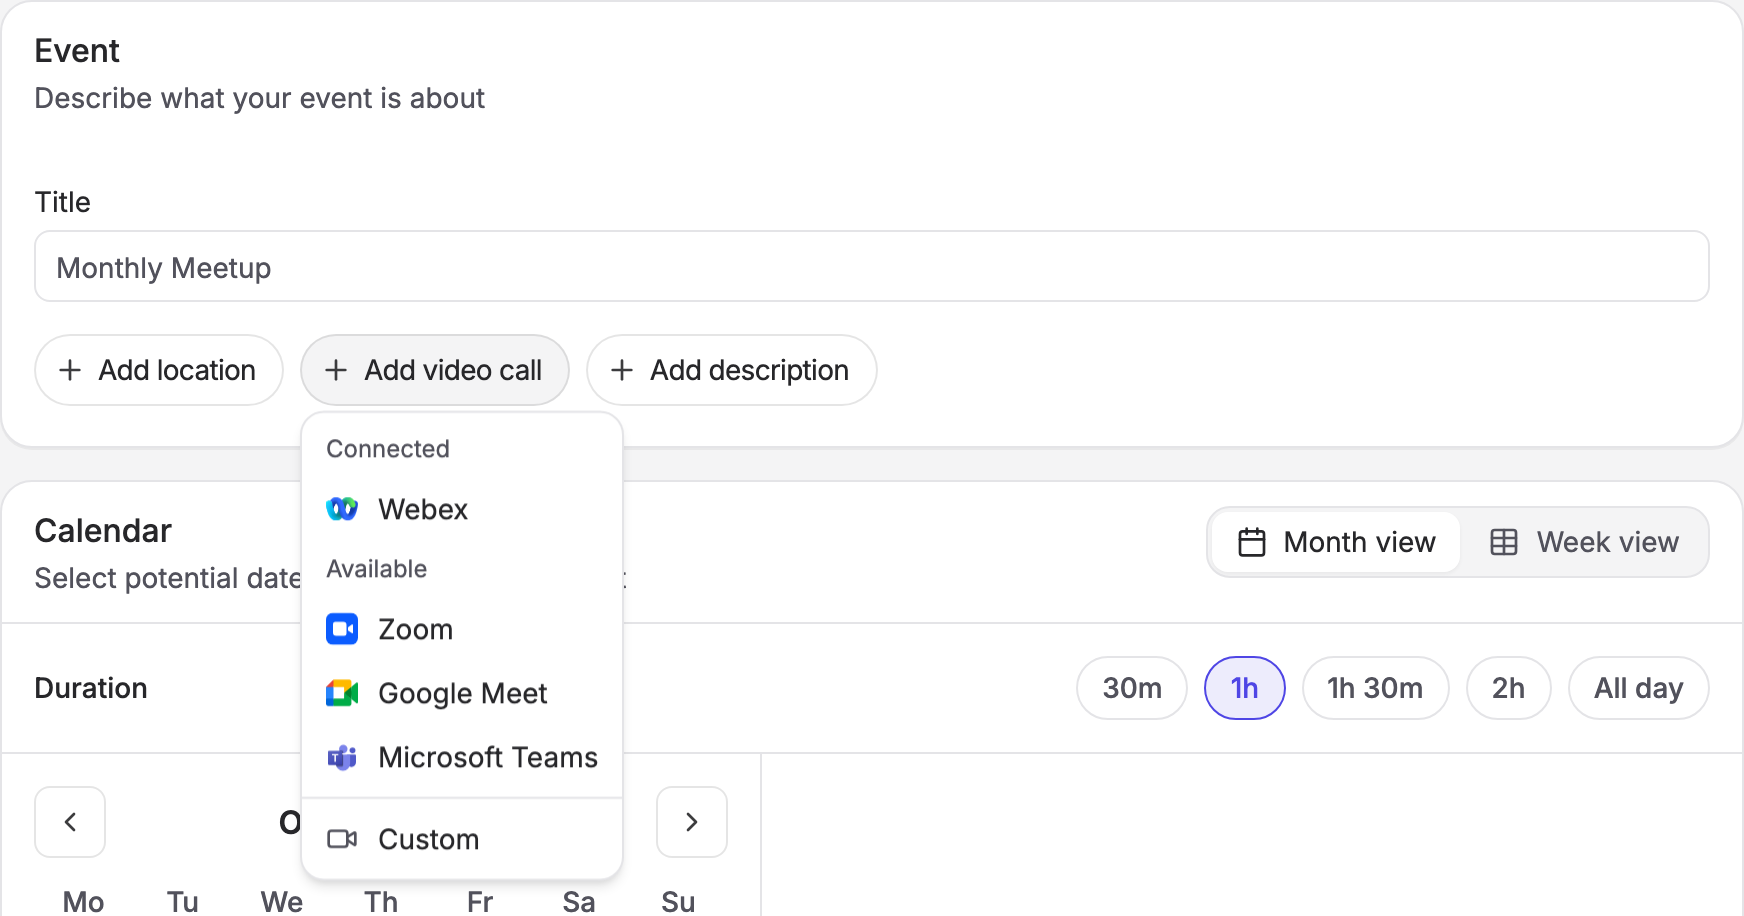
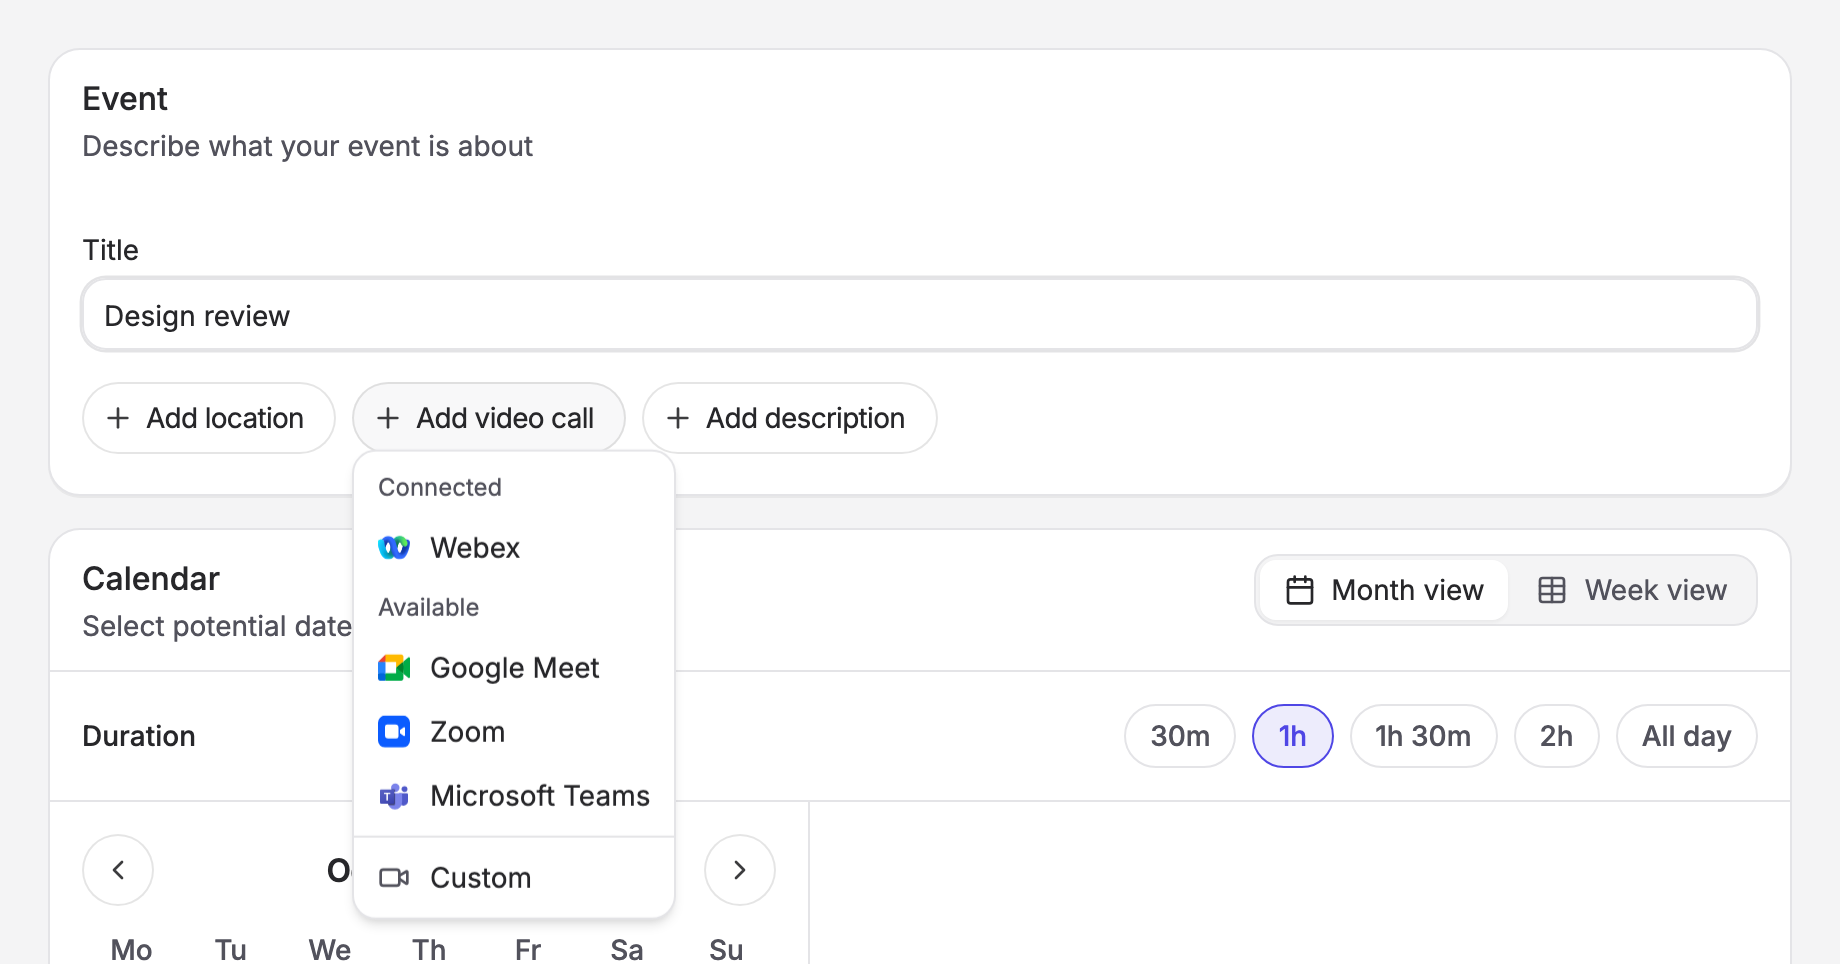
📝 Retake conferencing guide screenshots in the new provider order
The capture script now covers all four providers, so every guide shows the
same settings page and menu. Selected and not connected images share one
name across guides.

diff --git a/packages/screenshots/capture/docs-conferencing.spec.ts b/packages/screenshots/capture/docs-conferencing.spec.ts
@@ -8,21 +8,50 @@ import { docsImagePath } from "./helpers";
 test.use({ deviceScaleFactor: 2 });
 
 const userId = "user-1";
+const pollId = "docs-conferencing-poll";
 
+// Listed in the order the app offers them, so each guide's screenshots show
+// the same settings page and menu.
 const providers = [
+  {
+    provider: "meet",
+    label: "Google Meet",
+    dir: "google-meet",
+    credentialProvider: "google",
+    integrationId: "google-meet",
+    scopes: ["https://www.googleapis.com/auth/meetings.space.created"],
+    email: "jessie.smith@example.com",
+    extras: { notConnected: true, disconnect: true, pollPage: false },
+  },
+  {
+    provider: "zoom",
+    label: "Zoom",
+    dir: "zoom",
+    credentialProvider: "zoom",
+    integrationId: "zoom",
+    scopes: ["user:read:user", "meeting:write:meeting"],
+    email: "jessie.smith@example.com",
+    extras: { notConnected: true, disconnect: true, pollPage: true },
+  },
   {
     provider: "teams",
     label: "Microsoft Teams",
     dir: "microsoft-teams",
+    credentialProvider: "microsoft",
+    integrationId: "microsoft-teams",
     scopes: ["OnlineMeetings.ReadWrite"],
     email: "jessie.smith@contoso.example",
+    extras: { notConnected: false, disconnect: false, pollPage: false },
   },
   {
     provider: "webex",
     label: "Webex",
     dir: "webex",
+    credentialProvider: "webex",
+    integrationId: "webex",
     scopes: ["meeting:schedules_write", "spark:people_read"],
     email: "jessie.smith@example.com",
+    extras: { notConnected: false, disconnect: false, pollPage: false },
   },
 ] as const;
 
@@ -31,17 +60,22 @@ async function clearConnections() {
     where: { userId, provider: { in: providers.map((p) => p.provider) } },
   });
   await prisma.credential.deleteMany({
-    where: { userId, provider: { in: ["microsoft", "webex"] } },
+    where: { userId, providerAccountId: { startsWith: "docs-" } },
   });
+  await prisma.poll.deleteMany({ where: { id: pollId } });
 }
 
 async function seedConnection({
   provider,
+  credentialProvider,
+  integrationId,
   scopes,
   email,
   label,
 }: {
   provider: string;
+  credentialProvider: string;
+  integrationId: string;
   scopes: readonly string[];
   email: string;
   label: string;
@@ -50,8 +84,6 @@ async function seedConnection({
   if (!secretPassword) {
     throw new Error("SECRET_PASSWORD is required to seed a credential");
   }
-  const credentialProvider = provider === "teams" ? "microsoft" : provider;
-  const integrationId = provider === "teams" ? "microsoft-teams" : provider;
   const providerAccountId = `docs-${provider}`;
   const credential = await prisma.credential.create({
     data: {
@@ -84,10 +116,74 @@ async function settle(page: Page) {
   await page.evaluate(() => document.fonts.ready);
 }
 
-test.beforeAll(clearConnections);
-test.afterAll(clearConnections);
+// The Pro space, so Zoom, Teams and Webex are offered without the pay wall.
+// Its custom branding is switched off for the run and restored after, so the
+// guides show the default theme.
+const proSpaceId = "space-2";
+let savedBranding: { primaryColor: string | null; showBranding: boolean };
 
-for (const { provider, label, dir, scopes, email } of providers) {
+test.beforeAll(async () => {
+  await clearConnections();
+  await prisma.spaceMember.update({
+    where: { id: "sm-2" },
+    data: { lastSelectedAt: new Date() },
+  });
+  savedBranding = await prisma.space.findUniqueOrThrow({
+    where: { id: proSpaceId },
+    select: { primaryColor: true, showBranding: true },
+  });
+  await prisma.space.update({
+    where: { id: proSpaceId },
+    data: { primaryColor: null, showBranding: false },
+  });
+});
+test.afterAll(async () => {
+  await clearConnections();
+  await prisma.space.update({
+    where: { id: proSpaceId },
+    data: savedBranding,
+  });
+});
+
+async function openPollForm(page: Page) {
+  await page.goto("/new");
+  await settle(page);
+  await page.getByLabel("Title").fill("Design review");
+  const form = page.locator("#create-poll");
+  const formBox = await form.boundingBox();
+  if (!formBox) throw new Error("poll form not visible");
+  return { form, formBox };
+}
+
+async function chooseProvider(page: Page, label: string) {
+  await page.getByRole("button", { name: "Add video call" }).click();
+  await page.getByRole("menuitem", { name: label }).click();
+}
+
+const pad = 24;
+
+function formClip(
+  formBox: { x: number; y: number; width: number },
+  bottom: number,
+) {
+  return {
+    x: formBox.x - pad,
+    y: formBox.y - pad,
+    width: formBox.width + pad * 2,
+    height: bottom - formBox.y + pad * 2,
+  };
+}
+
+async function formBottom(page: Page) {
+  const addDescription = await page
+    .getByRole("button", { name: "Add description" })
+    .boundingBox();
+  if (!addDescription) throw new Error("form buttons not visible");
+  return addDescription.y + addDescription.height;
+}
+
+for (const config of providers) {
+  const { provider, label, dir, extras } = config;
   test(`${dir} screenshots`, async ({ page }) => {
     await clearConnections();
     await page.setViewportSize({ width: 1280, height: 900 });
@@ -101,7 +197,18 @@ for (const { provider, label, dir, scopes, email } of providers) {
       clip: { x: 0, y: 0, width: 1280, height: 640 },
     });
 
-    await seedConnection({ provider, scopes, email, label });
+    if (extras.notConnected) {
+      const { form, formBox } = await openPollForm(page);
+      await chooseProvider(page, label);
+      await form.getByText(`${label} is not connected`).waitFor();
+      await page.mouse.move(0, 0);
+      await page.screenshot({
+        path: docsImagePath(`integrations/${dir}/not-connected`),
+        clip: formClip(formBox, await formBottom(page)),
+      });
+    }
+
+    await seedConnection(config);
     await page.goto("/settings/conferencing");
     await settle(page);
     await page.screenshot({
@@ -109,39 +216,57 @@ for (const { provider, label, dir, scopes, email } of providers) {
       clip: { x: 0, y: 0, width: 1280, height: 640 },
     });
 
-    await page.goto("/new");
-    await settle(page);
-    const form = page.locator("#create-poll");
-    const formBox = await form.boundingBox();
-    if (!formBox) throw new Error("poll form not visible");
+    if (extras.disconnect) {
+      await page.getByRole("button", { name: "More options" }).click();
+      await page.getByRole("menuitem", { name: "Disconnect" }).waitFor();
+      await page.screenshot({
+        path: docsImagePath(`integrations/${dir}/disconnect-menu`),
+        clip: { x: 0, y: 0, width: 1280, height: 640 },
+      });
+      await page.keyboard.press("Escape");
+    }
+
+    const { form, formBox } = await openPollForm(page);
     await page.getByRole("button", { name: "Add video call" }).click();
     await page.getByRole("menuitem", { name: label }).waitFor();
     const menuBox = await page.getByRole("menu").boundingBox();
     if (!menuBox) throw new Error("menu not visible");
     await page.screenshot({
       path: docsImagePath(`integrations/${dir}/video-call-menu`),
-      clip: {
-        x: formBox.x,
-        y: formBox.y,
-        width: formBox.width,
-        height: menuBox.y + menuBox.height - formBox.y + 24,
-      },
+      clip: formClip(formBox, menuBox.y + menuBox.height),
     });
 
     await page.getByRole("menuitem", { name: label }).click();
     await form.getByText(label, { exact: true }).waitFor();
-    const addDescription = await page
-      .getByRole("button", { name: "Add description" })
-      .boundingBox();
-    if (!addDescription) throw new Error("form buttons not visible");
+    await page.mouse.move(0, 0);
     await page.screenshot({
       path: docsImagePath(`integrations/${dir}/selected`),
-      clip: {
-        x: formBox.x,
-        y: formBox.y,
-        width: formBox.width,
-        height: addDescription.y + addDescription.height - formBox.y + 24,
-      },
+      clip: formClip(formBox, await formBottom(page)),
     });
+
+    if (extras.pollPage) {
+      await prisma.poll.create({
+        data: {
+          id: pollId,
+          title: "Design review",
+          userId,
+          spaceId: proSpaceId,
+          status: "open",
+          timeZone: "America/New_York",
+          conferencing: { provider },
+          options: {
+            create: [
+              { startTime: new Date(Date.now() + 7 * 864e5), duration: 60 },
+            ],
+          },
+        },
+      });
+      await page.goto(`/poll/${pollId}`);
+      await settle(page);
+      await page.screenshot({
+        path: docsImagePath(`integrations/${dir}/poll-page`),
+        clip: { x: 0, y: 0, width: 1280, height: 320 },
+      });
+    }
   });
 }
